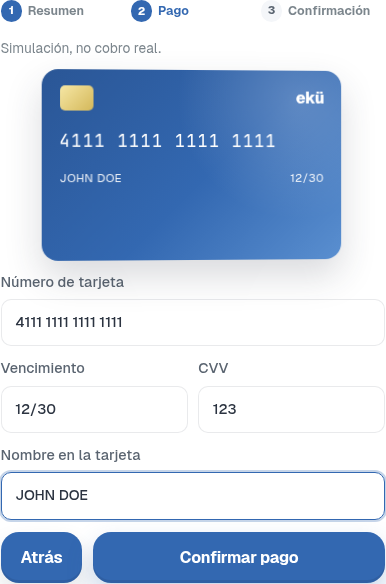
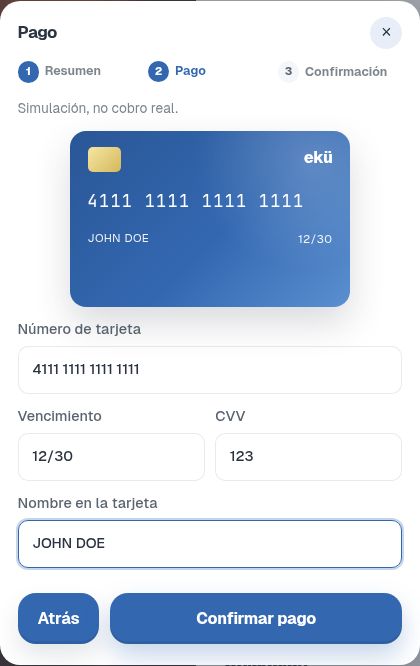
fix(U20): visible Confirmar pago, step 3 success, ES copy
Sticky primary CTA on payment step; show Confirmación success before
pase; replace Checkout/Hosted by with Pago/Organizado por.

diff --git a/src/styles/global.css b/src/styles/global.css
@@ -3205,15 +3205,77 @@ html:not(.is-authed) .pase-page .page-loader {
   margin: 0;
   font-size: 0.85rem;
 }
+.pay-panel--pago {
+  gap: 0.85rem;
+}
+.pay-panel__body {
+  display: grid;
+  gap: 0.75rem;
+}
+.pay-actions {
+  display: grid;
+  grid-template-columns: auto 1fr;
+  gap: 0.65rem;
+  align-items: stretch;
+}
+.pay-actions--sticky {
+  position: sticky;
+  bottom: 0;
+  z-index: 2;
+  margin: 0 -0.15rem;
+  padding: 0.75rem 0.15rem 0.15rem;
+  background: linear-gradient(180deg, rgba(255, 255, 255, 0) 0%, #fff 28%);
+}
+.pay-actions .btn--primary,
+.pay-actions .btn--checkout {
+  flex: 1;
+  min-height: 2.75rem;
+  font-weight: 750;
+}
+.pay-panel--confirm {
+  min-height: 12rem;
+  place-items: center;
+  text-align: center;
+  padding: 1rem 0.25rem 0.5rem;
+}
+.pay-confirm-loading,
+.pay-confirm-success {
+  display: grid;
+  gap: 0.85rem;
+  justify-items: center;
+  width: 100%;
+}
+.pay-confirm-loading[hidden],
+.pay-confirm-success[hidden] {
+  display: none !important;
+}
+.pay-confirm-title {
+  margin: 0;
+  font-size: 1.1rem;
+  font-weight: 750;
+  color: var(--ink);
+}
+.pay-confirm-check {
+  width: 3rem;
+  height: 3rem;
+  border-radius: 999px;
+  display: grid;
+  place-items: center;
+  background: #3368b1;
+  color: #fff;
+  font-size: 1.35rem;
+  font-weight: 800;
+  box-shadow: 0 10px 24px rgba(51, 104, 177, 0.28);
+}
 .pay-card-stage {
   perspective: 900px;
   display: grid;
   place-items: center;
-  min-height: 148px;
+  min-height: 132px;
 }
 .pay-card {
   position: relative;
-  width: min(100%, 300px);
+  width: min(100%, 280px);
   aspect-ratio: 1.586 / 1;
   transform-style: preserve-3d;
   transition: transform 0.55s var(--ease, cubic-bezier(0.22, 1, 0.36, 1));
@@ -3285,14 +3347,6 @@ html:not(.is-authed) .pase-page .page-loader {
   display: grid;
   gap: 0.1rem;
   font-size: 0.7rem;
-}
-.pay-actions {
-  display: flex;
-  gap: 0.65rem;
-  flex-wrap: wrap;
-}
-.pay-actions .btn--primary {
-  flex: 1;
 }
 .free-tag--paid {
   background: rgba(51, 104, 177, 0.12);
